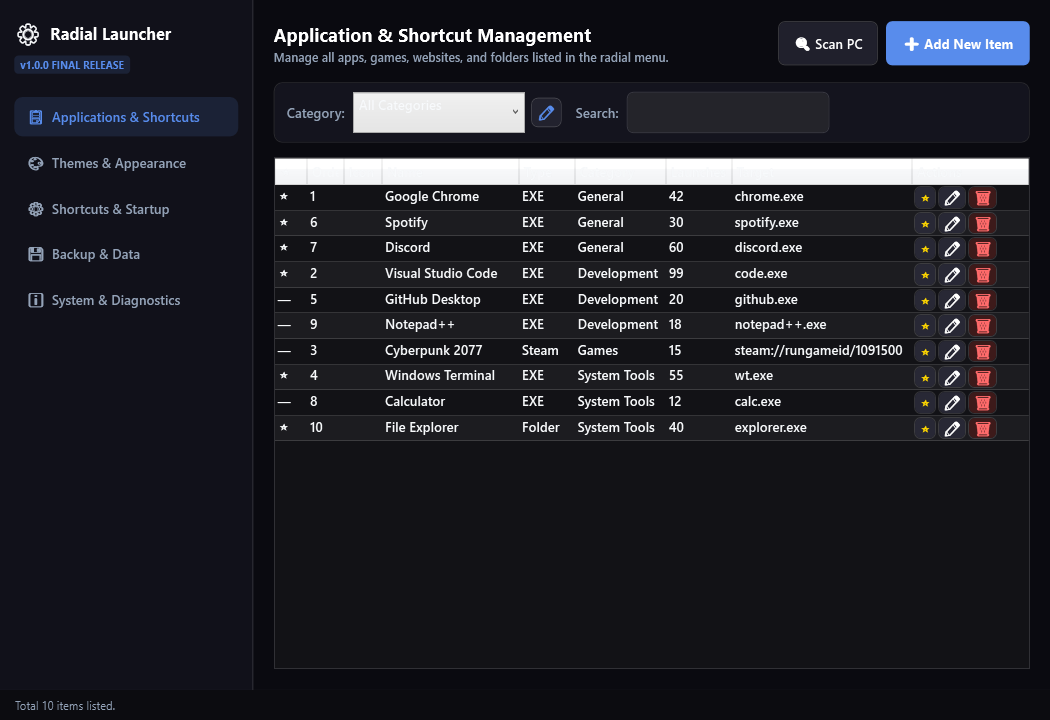
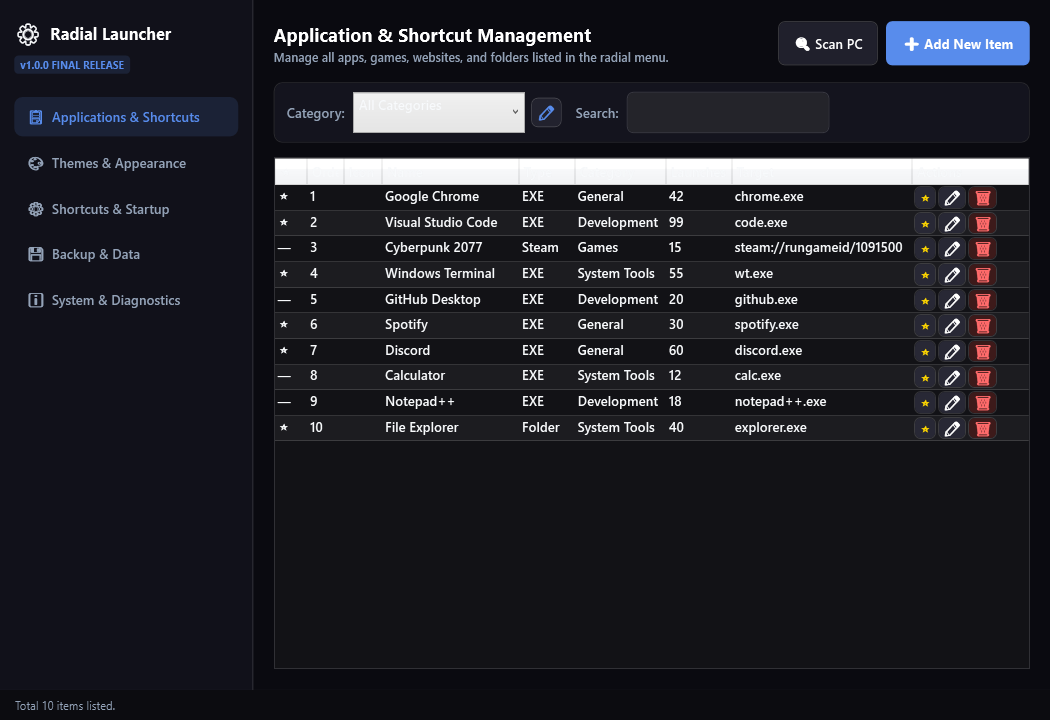
feat: implement true iOS-style drag shift reordering and strict Position sorting for 100% sync

diff --git a/UI/ViewModels/RadialMenuViewModel.cs b/UI/ViewModels/RadialMenuViewModel.cs
@@ -308,18 +308,9 @@ namespace RadialLauncher.UI.ViewModels
                 }
                 else if (cat.SystemKey == "Cat_MostUsed" || cat.Id == 1)
                 {
-                    // Recency/frequency-aware weighted ranking:
-                    DateTime now = DateTime.UtcNow;
-                    filtered = _allItems.Where(i => i.CategoryId <= 1 || i.IsUserAdded || i.IsFavorite || i.UseCount > 0 || i.LaunchCount > 0)
-                                        .Where(i => i.ParentId == 0)
-                                        .OrderByDescending(i => CalculateUsageScore(i, now))
-                                        .ThenBy(i => i.Position)
+                    filtered = _allItems.Where(i => (i.CategoryId <= 1 || i.IsUserAdded || i.IsFavorite) && i.ParentId == 0)
+                                        .OrderBy(i => i.Position)
                                         .ToList();
-
-                    if (_contextualItems != null && _contextualItems.Count > 0)
-                    {
-                        filtered.InsertRange(0, _contextualItems);
-                    }
                 }
                 else
                 {
@@ -346,67 +337,43 @@ namespace RadialLauncher.UI.ViewModels
                 sourceIndex == targetIndex)
                 return;
 
-            var sourceItem = CurrentPageItems[sourceIndex];
-            var targetItem = CurrentPageItems[targetIndex];
+            int pageSize = ActiveTheme.DensityMode == "Compact" ? 18 : 15;
+            int baseOffset = CurrentPageIndex * pageSize;
 
+            List<LauncherItem> activeList;
             if (IsSubmenu && _navStack.Count > 0)
             {
                 int currentParentId = _navStack.Peek().parentId;
-                var subItems = _allItems.Where(i => i.ParentId == currentParentId).OrderBy(i => i.Position).ToList();
-                int oldIdx = subItems.FindIndex(i => i.Id == sourceItem.Id);
-                int newIdx = subItems.FindIndex(i => i.Id == targetItem.Id);
-                if (oldIdx >= 0 && newIdx >= 0)
+                activeList = _allItems.Where(i => i.ParentId == currentParentId).OrderBy(i => i.Position).ToList();
+            }
+            else
+            {
+                var cat = (Categories.Count > CurrentCategoryIndex) ? Categories[CurrentCategoryIndex] : null;
+                if (cat != null && cat.Id > 1)
                 {
-                    var itemToMove = subItems[oldIdx];
-                    subItems.RemoveAt(oldIdx);
-                    subItems.Insert(newIdx, itemToMove);
-                    for (int p = 0; p < subItems.Count; p++)
-                    {
-                        subItems[p].Position = p + 1;
-                    }
-                    _itemRepo.UpdatePositions(subItems);
+                    activeList = _allItems.Where(i => i.CategoryId == cat.Id && i.ParentId == 0).OrderBy(i => i.Position).ToList();
+                }
+                else
+                {
+                    activeList = _allItems.Where(i => (i.CategoryId <= 1 || i.IsFavorite || i.IsUserAdded) && i.ParentId == 0).OrderBy(i => i.Position).ToList();
                 }
             }
-            else if (sourceItem.CategoryId > 1 && sourceItem.CategoryId == targetItem.CategoryId)
+
+            int globalSource = baseOffset + sourceIndex;
+            int globalTarget = baseOffset + targetIndex;
+
+            if (globalSource >= 0 && globalSource < activeList.Count && globalTarget >= 0 && globalTarget < activeList.Count)
             {
-                int catId = sourceItem.CategoryId;
-                var itemsInCat = _allItems.Where(i => i.CategoryId == catId && i.ParentId == 0).OrderBy(i => i.Position).ToList();
-                int oldDbIdx = itemsInCat.FindIndex(i => i.Id == sourceItem.Id);
-                int newDbIdx = itemsInCat.FindIndex(i => i.Id == targetItem.Id);
+                var moved = activeList[globalSource];
+                activeList.RemoveAt(globalSource);
+                activeList.Insert(globalTarget, moved);
 
-                if (oldDbIdx >= 0 && newDbIdx >= 0)
+                for (int p = 0; p < activeList.Count; p++)
                 {
-                    var itemToMove = itemsInCat[oldDbIdx];
-                    itemsInCat.RemoveAt(oldDbIdx);
-                    itemsInCat.Insert(newDbIdx, itemToMove);
-
-                    for (int p = 0; p < itemsInCat.Count; p++)
-                    {
-                        itemsInCat[p].Position = p + 1;
-                    }
-
-                    _itemRepo.UpdatePositions(itemsInCat);
+                    activeList[p].Position = p + 1;
                 }
-            }
-            else if (sourceItem.Id > 0 && targetItem.Id > 0)
-            {
-                var allRoots = _allItems.Where(i => i.ParentId == 0).OrderBy(i => i.Position).ToList();
-                int oldDbIdx = allRoots.FindIndex(i => i.Id == sourceItem.Id);
-                int newDbIdx = allRoots.FindIndex(i => i.Id == targetItem.Id);
 
-                if (oldDbIdx >= 0 && newDbIdx >= 0)
-                {
-                    var itemToMove = allRoots[oldDbIdx];
-                    allRoots.RemoveAt(oldDbIdx);
-                    allRoots.Insert(newDbIdx, itemToMove);
-
-                    for (int p = 0; p < allRoots.Count; p++)
-                    {
-                        allRoots[p].Position = p + 1;
-                    }
-
-                    _itemRepo.UpdatePositions(allRoots);
-                }
+                _itemRepo.UpdatePositions(activeList);
             }
 
             _allItems = _itemRepo.GetAll();

diff --git a/UI/Windows/RadialMenuWindow.xaml.cs b/UI/Windows/RadialMenuWindow.xaml.cs
@@ -83,7 +83,7 @@ namespace RadialLauncher.UI.Windows
                 ClearActiveDwmThumbnails();
                 Dispatcher.Invoke(this.Hide);
             };
-            _viewModel.RequestLayoutUpdate += () => Dispatcher.Invoke(RenderLayout);
+            _viewModel.RequestLayoutUpdate += () => Dispatcher.Invoke(() => RenderLayout(false));
 
             this.PreviewMouseDown += Window_PreviewMouseDown;
             this.PreviewMouseMove += Window_PreviewMouseMove;
@@ -161,7 +161,7 @@ namespace RadialLauncher.UI.Windows
                 _viewModel.InitializeForDisplay();
 
                 ApplyThemeVisuals(_viewModel.ActiveTheme);
-                RenderLayout();
+                RenderLayout(true);
                 HideContextActionCard();
 
                 this.Opacity = 1;
@@ -210,7 +210,7 @@ namespace RadialLauncher.UI.Windows
             SearchText.Foreground = new SolidColorBrush(theme.TextColor);
         }
 
-        public void RenderLayout()
+        public void RenderLayout(bool animateBloom = false)
         {
             ApplyThemeVisuals(_viewModel.ActiveTheme);
             ClearActiveDwmThumbnails();
@@ -477,8 +477,11 @@ namespace RadialLauncher.UI.Windows
                 ItemsCanvas.Children.Add(lblBorder);
                 _visibleButtons.Add((btn, lblBorder, item));
 
-                RadialMotionSystem.AnimateItemBloom(btn, i, theme.ReduceMotion);
-                RadialMotionSystem.AnimateItemBloom(lblBorder, i, theme.ReduceMotion);
+                if (animateBloom)
+                {
+                    RadialMotionSystem.AnimateItemBloom(btn, i, theme.ReduceMotion);
+                    RadialMotionSystem.AnimateItemBloom(lblBorder, i, theme.ReduceMotion);
+                }
             }
 
             RenderCategoryDots();

diff --git a/UI/ViewModels/ManagementViewModel.cs b/UI/ViewModels/ManagementViewModel.cs
@@ -111,17 +111,13 @@ namespace RadialLauncher.UI.ViewModels
         public void RefreshItems()
         {
             var all = _itemRepo.GetAll();
-            if (SelectedCategory != null && SelectedCategory.SystemKey == "Cat_MostUsed")
+            if (SelectedCategory != null && (SelectedCategory.SystemKey == "Cat_MostUsed" || SelectedCategory.Id == 1))
             {
-                // Exact same recency/frequency weighted calculation as RadialMenuViewModel
-                DateTime now = DateTime.UtcNow;
-                all = all.Where(i => i.CategoryId <= 1 || i.IsUserAdded || i.IsFavorite || i.UseCount > 0 || i.LaunchCount > 0)
-                         .Where(i => i.ParentId == 0)
-                         .OrderByDescending(i => RadialMenuViewModel.CalculateUsageScore(i, now))
-                         .ThenBy(i => i.Position)
+                all = all.Where(i => (i.CategoryId <= 1 || i.IsUserAdded || i.IsFavorite) && i.ParentId == 0)
+                         .OrderBy(i => i.Position)
                          .ToList();
             }
-            else if (SelectedCategory != null && SelectedCategory.SystemKey != "Cat_MostUsed")
+            else if (SelectedCategory != null && SelectedCategory.Id > 1)
             {
                 all = all.Where(i => i.CategoryId == SelectedCategory.Id && i.ParentId == 0)
                          .OrderBy(i => i.Position)
@@ -130,8 +126,7 @@ namespace RadialLauncher.UI.ViewModels
             else
             {
                 all = all.Where(i => i.ParentId == 0)
-                         .OrderBy(i => i.CategoryId)
-                         .ThenBy(i => i.Position)
+                         .OrderBy(i => i.Position)
                          .ToList();
             }
 
